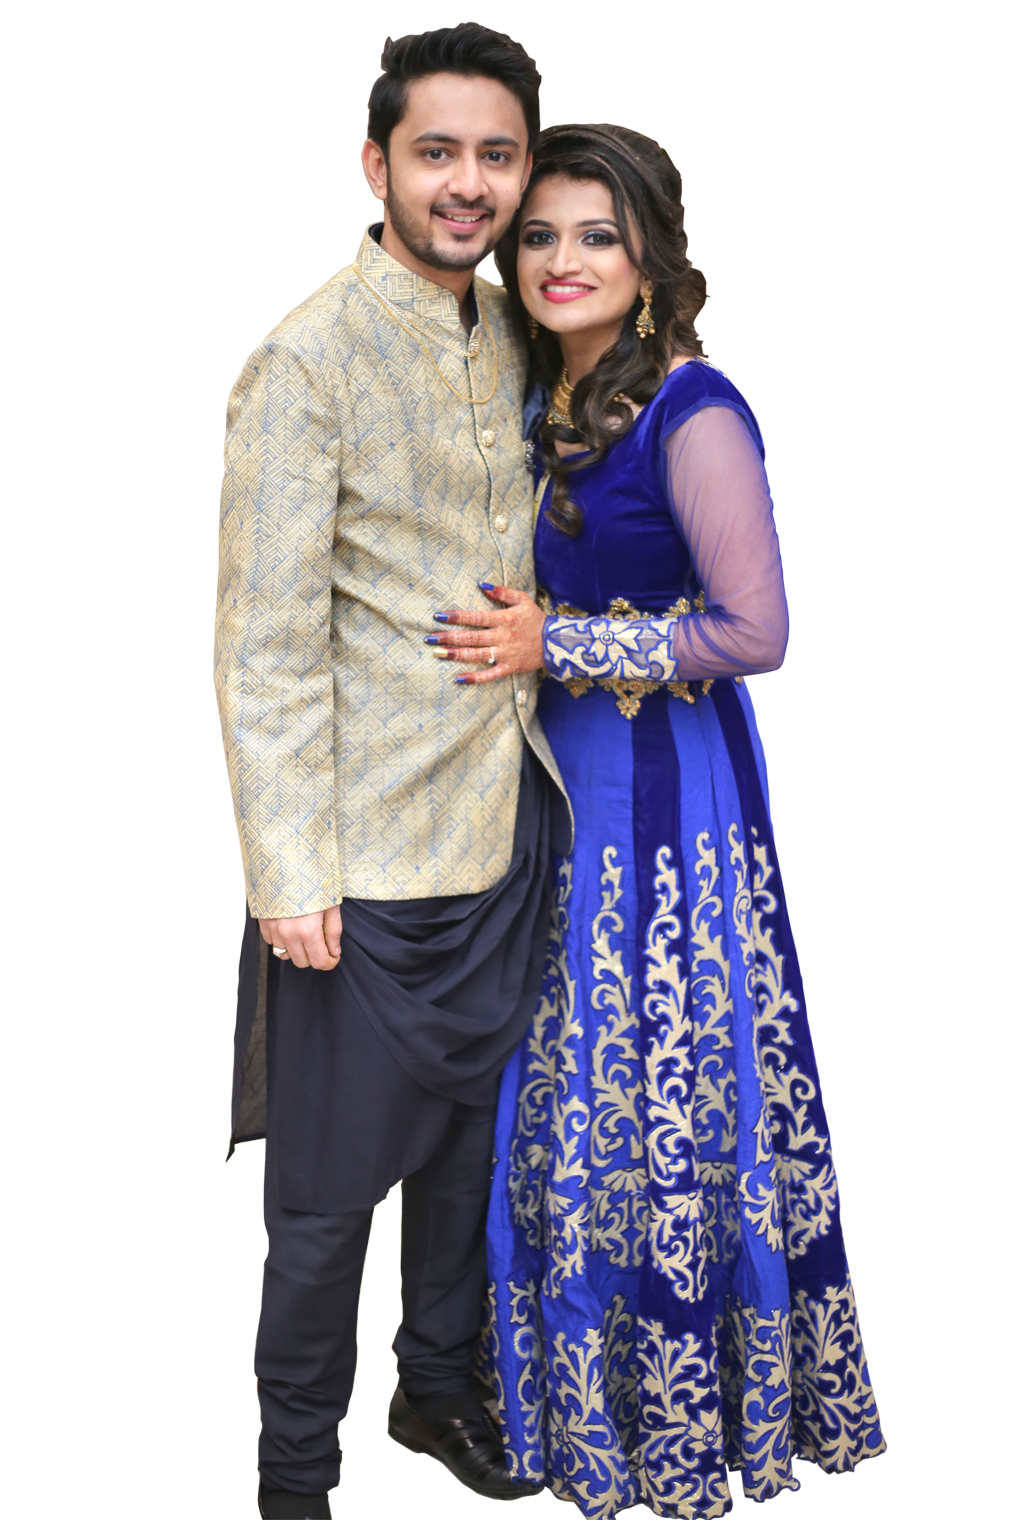
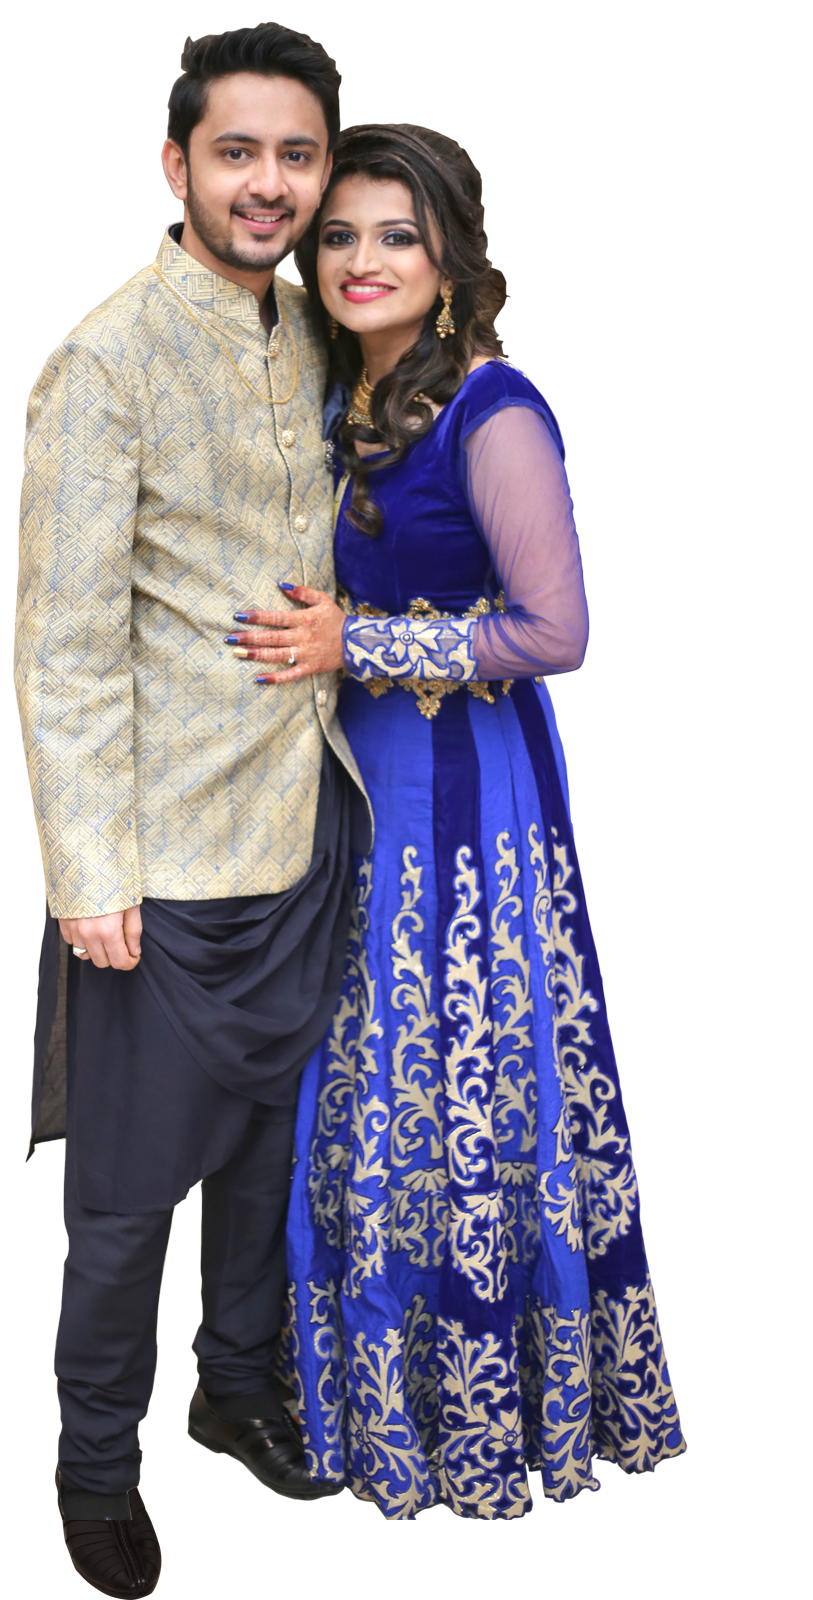
image

diff --git a/wedding.htm b/wedding.htm
@@ -5,10 +5,10 @@
 	body {
 	background-repeat: no-repeat;}
 	img.align-center {
-		margin-left: 160px;}
+		margin-left: 120px;}
 </style>
 </head>
 <body background="img2/bgRight3.jpg">
-<img src="img/Rohan e-Wedding card Eng 01.jpg" width="30%" alt="INVITATION" class="align-center medium" />
+<img src="img/Rohan e-Wedding card Eng 01.jpg" width="380px" alt="INVITATION" class="align-center medium" />
 </body>
 </html>

diff --git a/RightFrame3.html b/RightFrame3.html
@@ -142,7 +142,7 @@ function MM_swapImage() { //v3.0
 <body background="img2/bgRight3.jpg" lang=EN-US link=blue vlink=purple style='tab-interval:
 .5in' onLoad="MM_preloadImages('../Button2.png','../Aboutus2.png','Aboutus1.png')">
 
-<img src="img2/IMG_9515 copy.png" alt="INVITATION" height="90%" />
+<img src="img2/IMG_9515 copy.png" class="align-center medium" alt="INVITATION" height="90%" />
 
 </p>
 </body>

diff --git a/sangeet.htm b/sangeet.htm
@@ -5,10 +5,10 @@
 	body {
 	background-repeat: no-repeat;}
 	img.align-center {
-		margin-left: 160px;}
+		margin-left: 120px;}
 </style>
 </head>
 <body background="img2/bgRight3.jpg">
-<img src="img/Rohan e-Sangeet Eng 01.jpg" width="30%" alt="INVITATION" class="align-center medium" />
+<img src="img/Rohan e-Sangeet Eng 01.jpg" width="380px" alt="INVITATION" class="align-center medium" />
 </body>
 </html>

diff --git a/invitationEng.htm b/invitationEng.htm
@@ -5,11 +5,11 @@
 	body {
 	background-repeat: no-repeat;}
 	video {
-		margin-left:160px;}
+		margin-left:120px;}
 </style>
 </head>
 <body background="img2/bgRight3.jpg">
-<video src="img/Rohan_Eng02.mp4" height="90%"
+<video src="img/Rohan_Eng02.mp4" width="380px"
 preload
 controls
 >

diff --git a/invitationGuj.htm b/invitationGuj.htm
@@ -5,11 +5,11 @@
 	body {
 	background-repeat: no-repeat;}
 	video {
-		margin-left:160px;}
+		margin-left:120px;}
 </style>
 </head>
 <body background="img2/bgRight3.jpg">
-<video src="img/Rohan_Guj02.mp4" height="90%"
+<video src="img/Rohan_Guj02.mp4" width="380px"
 preload
 controls
 >
